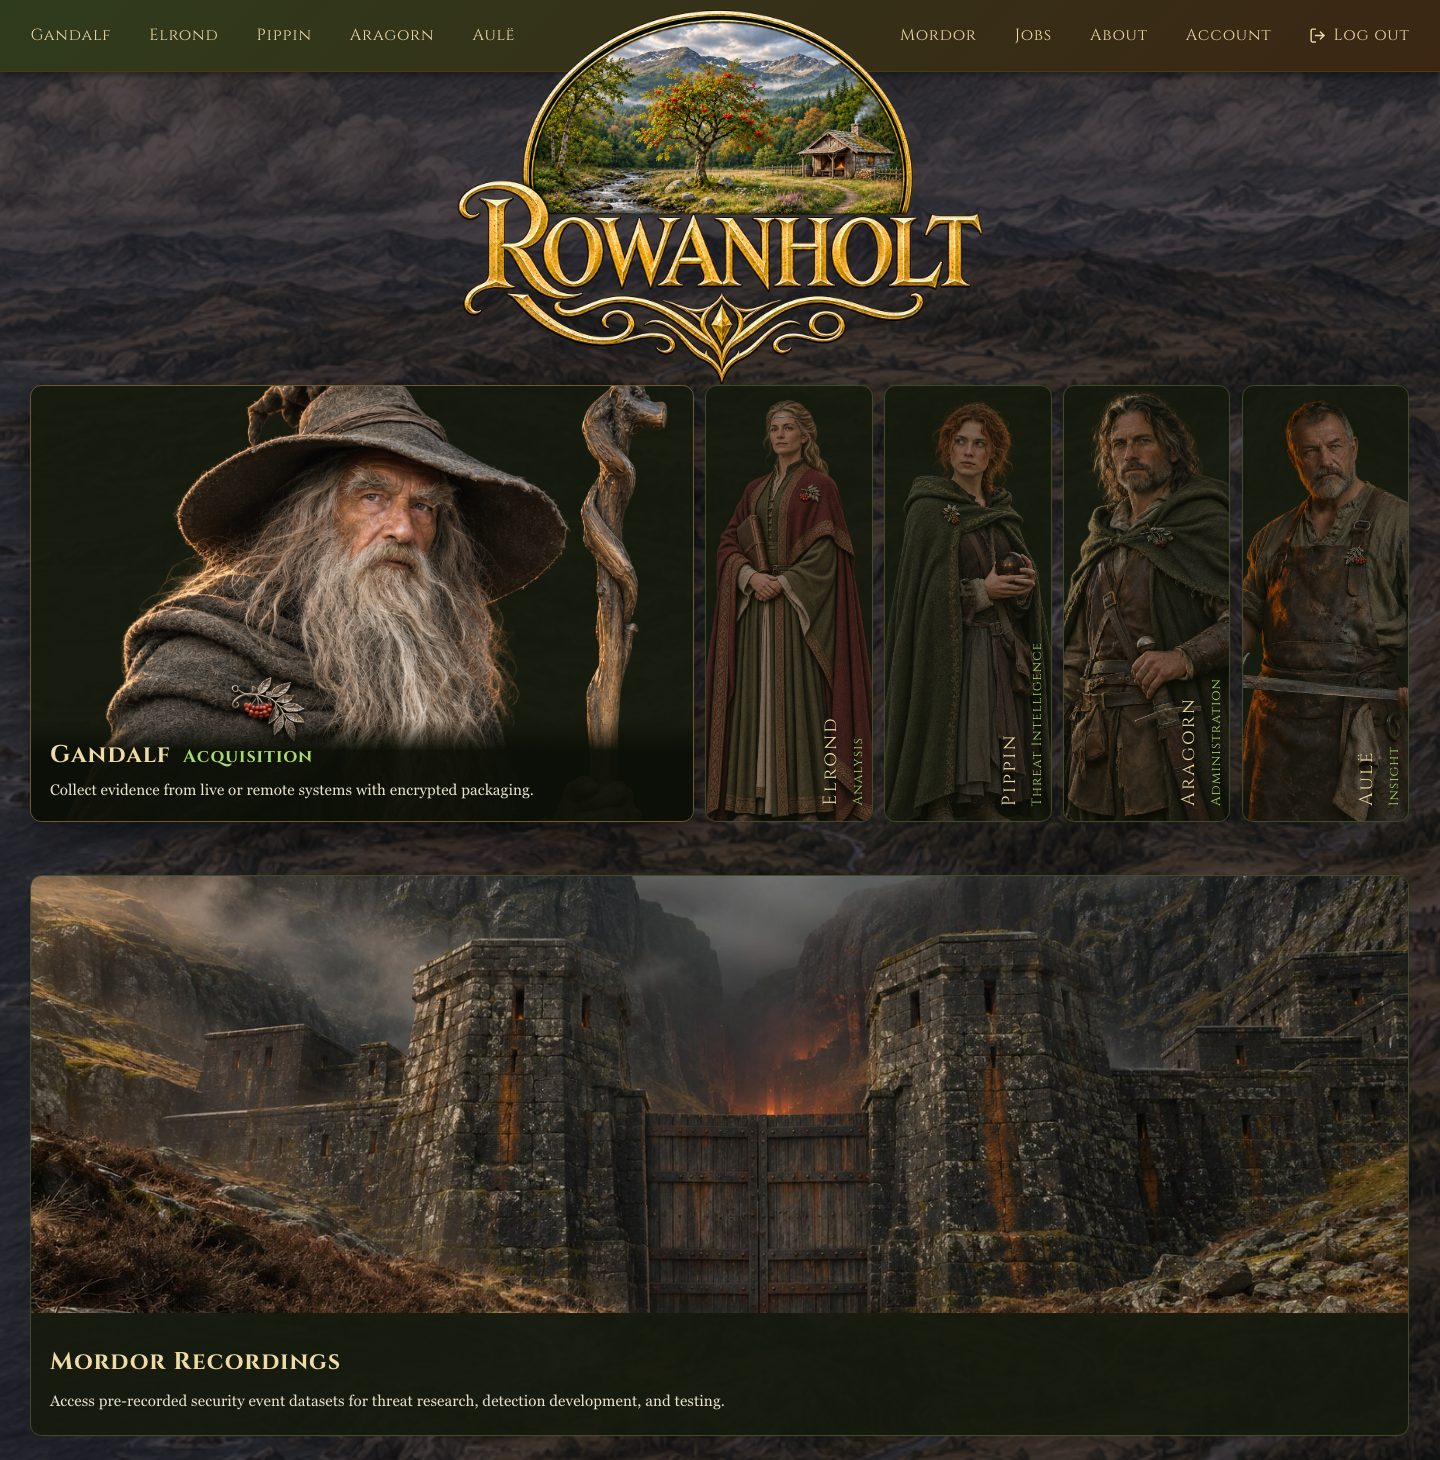
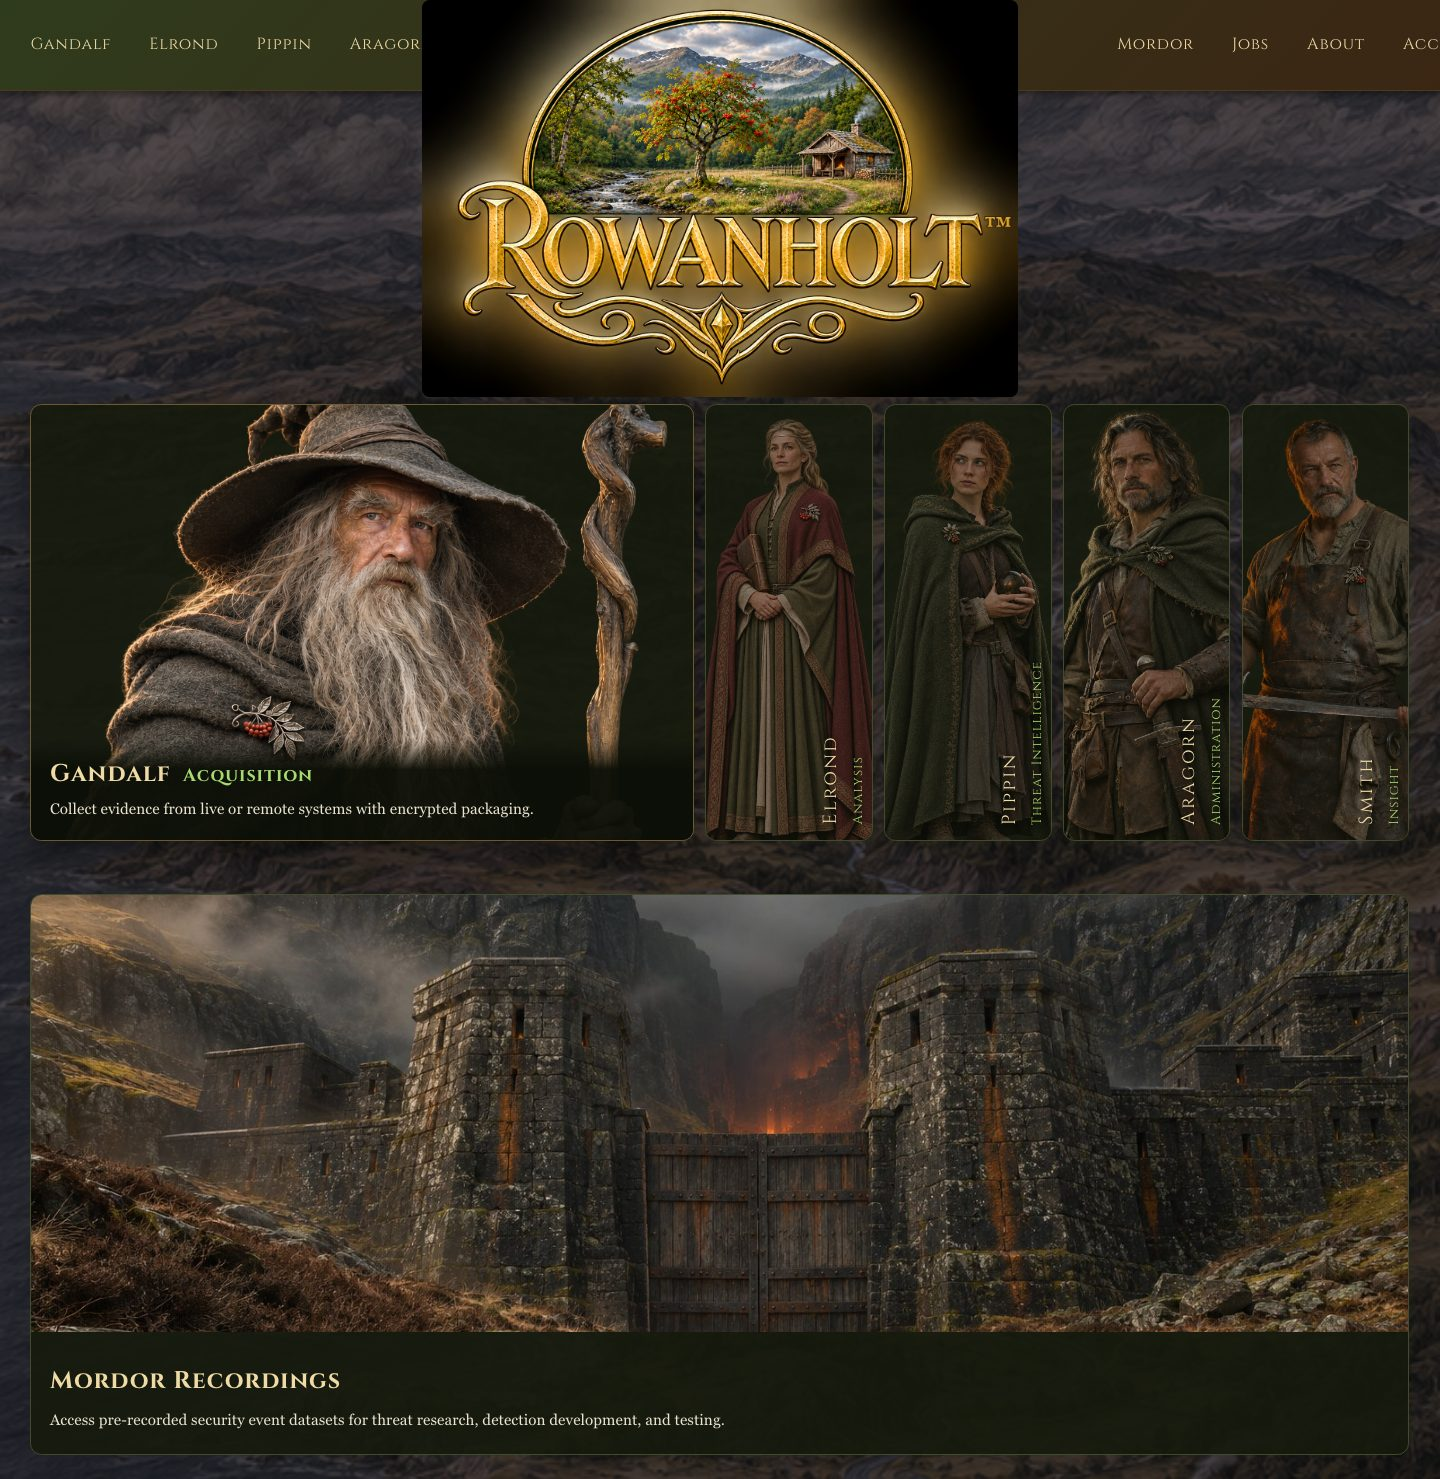
docs(guide): retake the photographs that showed Aulë, now Smith
Home, Smith's page, Account and About, taken from the homelab. The capture now signs in
with the session cookie as well as the token, since Smith's case list is fetched with
the cookie alone (without it the page showed no cases), picks a case on Smith's page so
its quick questions show, and shows Account with an empty token list: the guide is
public and the install's own tokens stay out of it.

diff --git a/scripts/docs/guide/capture.py b/scripts/docs/guide/capture.py
@@ -80,6 +80,13 @@ def prepare(page, page_id: str) -> None:
         page.wait_for_timeout(1500)  # the case number is checked against existing cases
         page.check("input[name=analysisMode][value=local]")
         page.wait_for_timeout(800)
+    elif page_id == "smith":
+        # A case chosen: its quick actions and questions only appear once there is one
+        picker = page.locator("[data-guide='smith.case'] select")
+        values = picker.locator("option").evaluate_all("os => os.map(o => o.value).filter(Boolean)")
+        if values:
+            picker.select_option(values[0])
+            page.wait_for_timeout(1500)
     elif page_id == "case":
         # A table open, and the host list held to the height of a laptop screen: in the tall window
         # it would otherwise run to 80vh and push Findings, Notes and Activity out of the photograph
@@ -139,6 +146,11 @@ def capture(args: argparse.Namespace) -> None:
             "localStorage.setItem('rowanholt.offeredAt', String(Date.now()));"
             + (f"localStorage.setItem('access_token', {json.dumps(token)});" if token else "")
             + (f"localStorage.setItem('user', {json.dumps(json.dumps(user))});" if user else ""))
+        if args.username:
+            # The session cookie too, as a sign-in in the browser sets it: some pages fetch with the
+            # cookie alone (Smith's case list), and without it they show an empty install
+            context.request.post(f"{args.api}/api/auth/login",
+                                 form={"username": args.username, "password": os.environ.get("ROWANHOLT_PASSWORD", "")})
         page = context.new_page()
         for page_id, route, sections in guide_pages():
             if args.only and page_id not in args.only:
@@ -150,6 +162,10 @@ def capture(args: argparse.Namespace) -> None:
                 route = route.replace(":first", job_id)
             if page_id == "job":
                 as_team_server(page, job_id, True)
+            if page_id == "account":
+                # The guide is public: the install's own tokens (names, prefixes, when used) stay out
+                page.route("**/api/auth/tokens", lambda r: r.fulfill(json={"tokens": []})
+                           if r.request.method == "GET" else r.continue_())
             page.goto(f"{args.url}{route}", wait_until="networkidle")
             page.wait_for_timeout(1500)
             prepare(page, page_id)
@@ -166,6 +182,8 @@ def capture(args: argparse.Namespace) -> None:
             }""", sections)
             if page_id == "job":
                 as_team_server(page, job_id, False)
+            if page_id == "account":
+                page.unroute("**/api/auth/tokens")
             if not found or len(found) < len(earlier.get(page_id, {}).get("boxes", {})):
                 print(f"  {page_id}: {len(found)} sections on the page now, fewer than before: kept the earlier photograph")
                 continue
